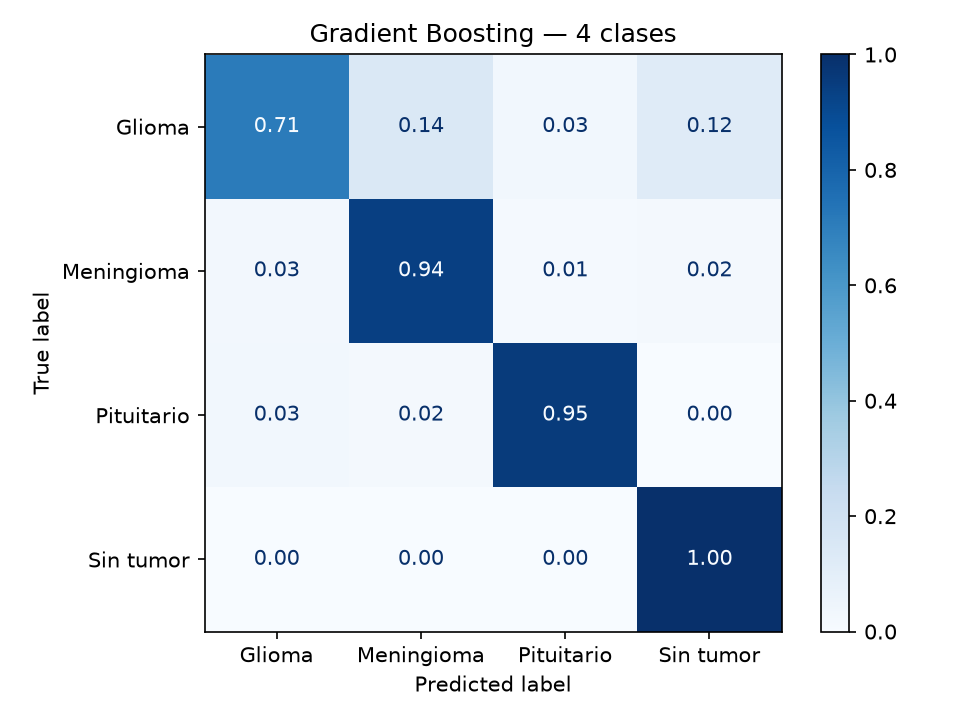
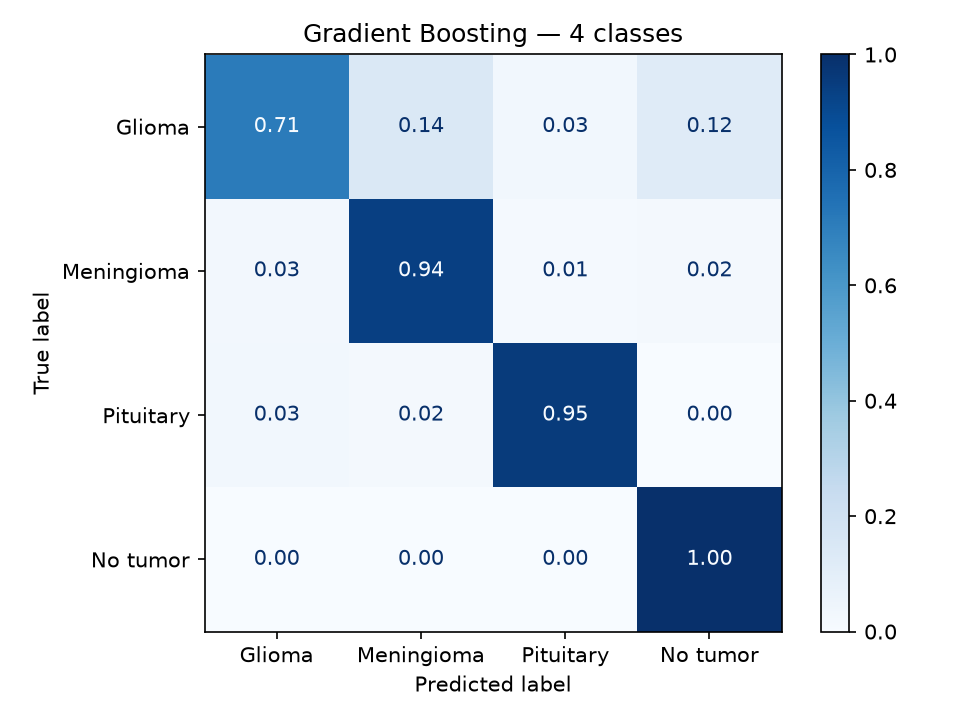
Translate README, code and figures to English

diff --git a/src/train.py b/src/train.py
@@ -1,8 +1,8 @@
-"""Entrena y evalúa clasificadores sobre las features de textura.
+"""Train and evaluate classifiers on the texture features.
 
-Dos tareas:
-  - binary: tumor vs sin tumor
-  - multiclass: glioma, meningioma, pituitario, sin tumor
+Two tasks:
+  - binary: tumor vs no tumor
+  - multiclass: glioma, meningioma, pituitary, no tumor
 """
 from __future__ import annotations
 
@@ -24,13 +24,13 @@ from sklearn.pipeline import make_pipeline
 from sklearn.preprocessing import StandardScaler
 from sklearn.svm import SVC
 
-LABELS_ES = {"glioma": "Glioma", "meningioma": "Meningioma",
-             "pituitary": "Pituitario", "notumor": "Sin tumor"}
+LABELS = {"glioma": "Glioma", "meningioma": "Meningioma",
+          "pituitary": "Pituitary", "notumor": "No tumor"}
 
 
 def models() -> dict:
     return {
-        "Regresión logística": make_pipeline(StandardScaler(), LogisticRegression(max_iter=5000, C=1.0)),
+        "Logistic Regression": make_pipeline(StandardScaler(), LogisticRegression(max_iter=5000, C=1.0)),
         "SVM (RBF)": make_pipeline(StandardScaler(), SVC(C=10, gamma="scale", probability=True)),
         "Random Forest": RandomForestClassifier(n_estimators=400, n_jobs=-1, random_state=42),
         "Gradient Boosting": HistGradientBoostingClassifier(max_iter=400, learning_rate=0.08, random_state=42),
@@ -62,16 +62,16 @@ def run(df: pd.DataFrame, task: str, out: Path) -> dict:
 
     best = models()[best_name].fit(X_tr, y_tr)
     pred = best.predict(X_te)
-    names = ["Sin tumor", "Tumor"] if task == "binary" else None
+    names = ["No tumor", "Tumor"] if task == "binary" else None
     if task == "multiclass":
         order = ["glioma", "meningioma", "pituitary", "notumor"]
         disp = ConfusionMatrixDisplay.from_predictions(
-            y_te, pred, labels=order, display_labels=[LABELS_ES[o] for o in order],
+            y_te, pred, labels=order, display_labels=[LABELS[o] for o in order],
             normalize="true", cmap="Blues", values_format=".2f")
     else:
         disp = ConfusionMatrixDisplay.from_predictions(
             y_te, pred, display_labels=names, normalize="true", cmap="Blues", values_format=".2f")
-    disp.ax_.set_title(f"{best_name} — {'tumor vs sin tumor' if task == 'binary' else '4 clases'}")
+    disp.ax_.set_title(f"{best_name} — {'tumor vs no tumor' if task == 'binary' else '4 classes'}")
     plt.tight_layout()
     plt.savefig(out / f"confusion_{task}.png", dpi=150)
     plt.close()
@@ -84,8 +84,8 @@ def run(df: pd.DataFrame, task: str, out: Path) -> dict:
         imp = pd.Series(rf.feature_importances_, index=feats).sort_values().tail(12)
         plt.figure(figsize=(7, 5))
         imp.plot.barh(color="#2b6cb0")
-        plt.title("Features más importantes (Random Forest)")
-        plt.xlabel("Importancia")
+        plt.title("Top features (Random Forest importance)")
+        plt.xlabel("Importance")
         plt.tight_layout()
         plt.savefig(out / "feature_importance.png", dpi=150)
         plt.close()

diff --git a/src/features.py b/src/features.py
@@ -1,4 +1,4 @@
-"""Extracción de características de textura (GLCM) y de primer orden en MRI cerebrales."""
+"""Texture (GLCM) and first-order feature extraction for brain MRI slices."""
 from __future__ import annotations
 
 import argparse
@@ -21,7 +21,7 @@ GLCM_PROPS = ("contrast", "dissimilarity", "homogeneity", "energy", "correlation
 
 
 def load_brain(path: Path, size: int = 256) -> tuple[np.ndarray, np.ndarray]:
-    """Carga la imagen, la pasa a gris, la recorta al cerebro y devuelve imagen + máscara."""
+    """Load an image, convert to grayscale, crop to the brain and return image + mask."""
     img = io.imread(path)
     if img.ndim == 3:
         img = rgb2gray(img[..., :3])
@@ -45,7 +45,7 @@ def glcm_features(img_q: np.ndarray, levels: int = LEVELS) -> dict[str, float]:
                         levels=levels, symmetric=True, normed=True)
     feats: dict[str, float] = {}
     for prop in GLCM_PROPS:
-        values = graycoprops(glcm, prop)  # (distancias, ángulos)
+        values = graycoprops(glcm, prop)  # (distances, angles)
         for i, d in enumerate(DISTANCES):
             feats[f"glcm_{prop}_d{d}_mean"] = float(values[i].mean())
             feats[f"glcm_{prop}_d{d}_range"] = float(np.ptp(values[i]))
@@ -100,4 +100,4 @@ if __name__ == "__main__":
     df = build_table(args.data, args.jobs)
     args.out.parent.mkdir(parents=True, exist_ok=True)
     df.to_csv(args.out, index=False)
-    print(f"{len(df)} imágenes, {df.shape[1] - 3} features -> {args.out}")
+    print(f"{len(df)} images, {df.shape[1] - 3} features -> {args.out}")

diff --git a/src/visualize_glcm.py b/src/visualize_glcm.py
@@ -1,4 +1,4 @@
-"""Compara visualmente la GLCM de una MRI sin tumor y una con tumor."""
+"""Visually compare the GLCM of a healthy MRI slice and a tumor slice."""
 import argparse
 from pathlib import Path
 
@@ -28,15 +28,15 @@ if __name__ == "__main__":
     args = ap.parse_args()
 
     fig, axes = plt.subplots(2, 2, figsize=(9, 9))
-    for row, (title, path) in enumerate((("Sin tumor", args.healthy), ("Con tumor", args.tumor))):
+    for row, (title, path) in enumerate((("No tumor", args.healthy), ("Tumor", args.tumor))):
         img, g, props = glcm_of(path)
         axes[row, 0].imshow(img, cmap="gray")
         axes[row, 0].set_title(f"MRI — {title}")
         axes[row, 0].axis("off")
         axes[row, 1].imshow(np.log1p(g * 1e4), cmap="viridis")
-        axes[row, 1].set_title("GLCM (escala log)\n" + " · ".join(f"{k} {v:.2f}" for k, v in props.items()), fontsize=9)
-        axes[row, 1].set_xlabel("nivel de gris j")
-        axes[row, 1].set_ylabel("nivel de gris i")
+        axes[row, 1].set_title("GLCM (log scale)\n" + " · ".join(f"{k} {v:.2f}" for k, v in props.items()), fontsize=9)
+        axes[row, 1].set_xlabel("gray level j")
+        axes[row, 1].set_ylabel("gray level i")
     plt.tight_layout()
     args.out.parent.mkdir(parents=True, exist_ok=True)
     plt.savefig(args.out, dpi=150)

diff --git a/src/download_data.py b/src/download_data.py
@@ -1,4 +1,4 @@
-"""Descarga el Brain Tumor MRI Dataset (Masoud Nickparvar) desde Hugging Face a ./data."""
+"""Download the Brain Tumor MRI Dataset (Masoud Nickparvar) from Hugging Face into ./data."""
 import argparse
 from concurrent.futures import ThreadPoolExecutor
 from pathlib import Path
@@ -31,4 +31,4 @@ if __name__ == "__main__":
              if s["rfilename"].endswith(".jpg")]
     with ThreadPoolExecutor(args.workers) as ex:
         list(ex.map(lambda f: fetch(f, args.out), files))
-    print(f"{len(files)} imágenes en {args.out}")
+    print(f"{len(files)} images in {args.out}")

diff --git a/README.md b/README.md
@@ -1,72 +1,72 @@
-# Detección de tumores cerebrales en MRI con features de textura (GLCM)
+# Brain Tumor Detection in MRI with Texture Features (GLCM)
 
-Pipeline de **radiómica clásica**: en lugar de una red neuronal, cada resonancia se describe con 46 características interpretables de textura (matriz de co-ocurrencia de niveles de gris, GLCM) y de intensidad, y se clasifica con modelos de machine learning tradicionales.
+A **classical radiomics** pipeline: instead of a neural network, each MRI slice is described by 46 interpretable texture features (Gray-Level Co-occurrence Matrix, GLCM) and intensity statistics, then classified with traditional machine learning models.
 
-Parte de un trabajo de **Ingeniería de Características** (Universidad de Palermo), donde analizamos cómo la GLCM distingue tejido sano (textura homogénea, valores concentrados en la diagonal) de tejido tumoral (textura heterogénea, valores dispersos). Este repo lleva esa idea a un dataset real de 7.200 MRI.
+The idea: healthy tissue tends to have homogeneous texture (GLCM values concentrated on the diagonal), while tumor tissue is more heterogeneous (values spread away from it). This repo tests that idea on a real dataset of 7,200 MRI slices.
 
-![GLCM sano vs tumor](assets/glcm_comparison.png)
+![GLCM healthy vs tumor](assets/glcm_comparison.png)
 
-## Resultados (test set, 1.600 imágenes)
+## Results (held-out test set, 1,600 images)
 
-| Tarea | Mejor modelo | Accuracy | F1 macro | ROC AUC |
+| Task | Best model | Accuracy | Macro F1 | ROC AUC |
 |---|---|---|---|---|
-| Tumor vs sin tumor | Gradient Boosting | **97.3%** | 0.965 | 0.998 |
-| 4 clases (glioma, meningioma, pituitario, sin tumor) | Gradient Boosting | **90.1%** | 0.897 | 0.973 |
+| Tumor vs no tumor | Gradient Boosting | **97.3%** | 0.965 | 0.998 |
+| 4 classes (glioma, meningioma, pituitary, no tumor) | Gradient Boosting | **90.1%** | 0.897 | 0.973 |
 
-Comparación de modelos (tarea binaria, test):
+Model comparison (binary task, test set):
 
-| Modelo | Accuracy | F1 macro | ROC AUC |
+| Model | Accuracy | Macro F1 | ROC AUC |
 |---|---|---|---|
-| Regresión logística | 92.9% | 0.909 | 0.975 |
+| Logistic Regression | 92.9% | 0.909 | 0.975 |
 | SVM (RBF) | 96.6% | 0.956 | 0.994 |
 | Random Forest | 96.6% | 0.957 | 0.997 |
 | Gradient Boosting | 97.3% | 0.965 | 0.998 |
 
-El modelo se elige por F1 macro en validación cruzada estratificada de 5 folds sobre el set de entrenamiento; el test set no se toca hasta la evaluación final.
+The model is selected by macro F1 in stratified 5-fold cross-validation on the training set; the test set is only used for the final evaluation.
 
 <p float="left">
   <img src="assets/confusion_multiclass.png" width="48%"/>
   <img src="assets/feature_importance.png" width="48%"/>
 </p>
 
-**Lectura:** las imágenes sin tumor se reconocen casi perfecto, meningioma y pituitario superan el 94%, y el glioma es la clase más difícil (71%), que se confunde con meningioma y con tejido sano. Las features más útiles son el **contraste GLCM** a distintas distancias y percentiles de intensidad.
+**Takeaways:** no-tumor slices are recognized almost perfectly, meningioma and pituitary tumors exceed 94% recall, and glioma is the hardest class (71%), often confused with meningioma and healthy tissue. The most useful features are **GLCM contrast** at several distances and intensity percentiles.
 
 ## Features
 
-- **GLCM** (32 niveles de gris; distancias 1, 2 y 4 px; ángulos 0°, 45°, 90°, 135°): contraste, disimilitud, homogeneidad, energía, correlación, ASM y entropía. Para cada distancia, media y rango entre ángulos (el rango mide anisotropía).
-- **Primer orden** sobre la máscara del cerebro: media, desvío, asimetría, curtosis, percentiles 10 y 90, entropía del histograma.
-- Preprocesamiento: escala de grises, resize a 256×256, recorte al cerebro con umbral de Otsu.
+- **GLCM** (32 gray levels; distances 1, 2 and 4 px; angles 0°, 45°, 90°, 135°): contrast, dissimilarity, homogeneity, energy, correlation, ASM and entropy. For each distance, the mean and range across angles (the range captures anisotropy).
+- **First-order** statistics over the brain mask: mean, standard deviation, skewness, kurtosis, 10th and 90th percentiles, histogram entropy.
+- Preprocessing: grayscale, resize to 256×256, crop to the brain with Otsu thresholding.
 
-## Uso
+## Usage
 
 ```bash
 pip install -r requirements.txt
-python src/download_data.py                 # ~7.200 imágenes a ./data
+python src/download_data.py                 # ~7,200 images into ./data
 python src/features.py --jobs 4             # -> results/features.csv
-python src/train.py                         # -> results/metrics.json + figuras
+python src/train.py                         # -> results/metrics.json + figures
 python src/visualize_glcm.py data/Testing/notumor/Te-no_100.jpg data/Testing/glioma/Te-gl_100.jpg
 ```
 
-Extracción de features de las 7.200 imágenes: ~50 s en 2 núcleos. Entrenamiento y evaluación: unos minutos en CPU.
+Feature extraction for all 7,200 images takes ~50 s on 2 CPU cores. Training and evaluation take a few minutes on CPU.
 
 ## Dataset
 
-[Brain Tumor MRI Dataset](https://www.kaggle.com/datasets/masoudnickparvar/brain-tumor-mri-dataset) (Masoud Nickparvar), versión espejada en [Hugging Face](https://huggingface.co/datasets/BJyotibrat/Masoud-Nickparvar-Brain-Tumor-MRI-Dataset): 5.600 imágenes de entrenamiento y 1.600 de test, balanceadas en 4 clases. Verifiqué que no hay imágenes idénticas (hash MD5) entre train y test.
+[Brain Tumor MRI Dataset](https://www.kaggle.com/datasets/masoudnickparvar/brain-tumor-mri-dataset) (Masoud Nickparvar), mirrored on [Hugging Face](https://huggingface.co/datasets/BJyotibrat/Masoud-Nickparvar-Brain-Tumor-MRI-Dataset): 5,600 training and 1,600 test images, balanced across 4 classes. No identical images (MD5 hash) are shared between train and test.
 
-## Limitaciones
+## Limitations
 
-- Las features se calculan sobre el corte completo, no sobre la lesión segmentada: el modelo detecta "cortes con tumor", y parte de la señal puede venir de diferencias de secuencia o adquisición entre fuentes del dataset.
-- Cortes 2D en JPG, sin metadatos DICOM ni separación por paciente.
-- Proyecto académico. No es una herramienta de diagnóstico.
+- Features are computed on the whole slice, not on a segmented lesion: the model detects "slices containing a tumor", and part of the signal may come from sequence or acquisition differences between the dataset's sources.
+- 2D JPG slices, with no DICOM metadata and no patient-level split.
+- Academic project. Not a diagnostic tool.
 
-## Estructura
+## Structure
 
 ```
 src/
-  download_data.py   descarga del dataset
-  features.py        extracción GLCM + primer orden
-  train.py           validación cruzada, evaluación y figuras
-  visualize_glcm.py  comparación visual de GLCM
-results/             features.csv, metrics.json y figuras
-assets/              imágenes del README
+  download_data.py   dataset download
+  features.py        GLCM + first-order feature extraction
+  train.py           cross-validation, evaluation and figures
+  visualize_glcm.py  visual GLCM comparison
+results/             features.csv, metrics.json and figures
+assets/              README images
 ```
